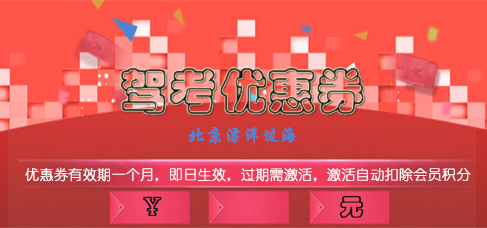
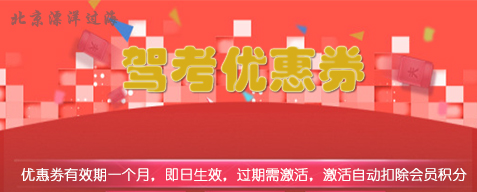
修改优惠券页面 huangfushan

diff --git a/src/main/webapp/js/coupon.js b/src/main/webapp/js/coupon.js
@@ -1,24 +1,29 @@
 $(function(){
 	$.post("queryCoupon.action",{},function(obj){
-    		if (obj.status == "1") {
-    			$(".coupons_hint_box").empty();
-				$(".price").html(obj.price);
-    		}else if (obj.status == "2") {
-    			$(".coupons_hint_box").empty();
-    			$(".price").html(obj.price);
+		if (obj.status=="0") {
+			var coupon_hint = "<div class='coupons_hint_box'><div class='coupon_hint'><div class='nohint'><p class='nohint_no'>没有券</p><p class='nohint_look'>去优惠活动里进行看看吧</p><a href='lottery.html'>去看看</a></div></div></div>"
+			$(".container").html(coupon_hint);
+		}else{
+			var coupon = "<div class='coupon'><img src='images/coupon.jpg' ><p>"+obj.price+"元</p><div class='coupon_hint_text'><h2>优惠提示:</h2><p>30天有效期，从领取日开始计时</p><p>过期可使用会员积分激活继续使用</p></div><div class='use_coupon'></div></div>"
+			$(".container").html(coupon);
+			if (obj.status == "1" || obj.status == "2") {
+    			$(".use_coupon").html("立即使用");
+    			$(".use_coupon").click(function(){
+    				window.location.href="index.html";
+    			});
     		}else if (obj.status == "3") {
-    			$(".coupons_hint_box").empty();
-				$(".price").html(obj.price);
+    			$(".use_coupon").html("立即激活并使用");
+    			$(".use_coupon").click(function(){
+    				$.post("activation.action",{},function(obj){
+						if (obj.status == "1") {
+							alert("激活成功");
+						}else{
+							alert("激活失败");
+						}
+					});
+				});	
     		}
-    	},'json');
-	$(".activation").click(function(){
-		$.post("activation.action",{},function(obj){
-			if (obj.status == "1") {
-				$(".activation").hide();
-				$(".effective").html("可用");
-			}else{
-				alert("激活失败");
-			}
-		});
-	});
+		}
+    },'json');	
 });
+

diff --git a/src/main/webapp/lottery.html b/src/main/webapp/lottery.html
@@ -17,9 +17,9 @@
 			<div class="instroduction">
 				<h4>活动具体说明：</h4>
 				<p>1.北京漂洋过海入驻北京，针对大学生的需求，推出驾校优惠活动。</p>
-				<p>2.优惠活动以优惠券具体金额为主，优惠券通过转盘抽奖免费获得，最低优惠200￥。</p>
-				<p>3.优惠券有效期为一个月，过期后如需继续使用，可用会员积分激活。</p>
-				<p>4."不限驾校"的范围指驾校模块中的所有驾校。</p>
+				<p>2.优惠活动以优惠券具体金额为主，优惠券通过转盘抽奖免费获得，最高优惠1000元。</p>
+				<p>3.优惠券有效期为一个月，过期后如需使用，可用会员积分激活。</p>
+				<p>4."不限驾校"的范围指驾校菜单中驾校。</p>
 			</div>
 			<div class='lottery_box'>
 				<div id="lottery">

diff --git a/src/main/webapp/coupon.html b/src/main/webapp/coupon.html
@@ -9,24 +9,7 @@
 </head>
 <body>	
 	<div class="main">
-		<div class="container">
-			<div class="coupons_hint_box">
-				<div class="coupon_hint">
-					<div class="nohint">
-						<p class="nohint_no">没有券</p>
-						<p class="nohint_look">去优惠活动里进行看看吧</p>
-						<a href="lottery.html">去看看</a>
-					</div>
-				</div>
-			</div>
-			<div class="coupon">
-				<img src="images/coupon.jpg" height="100%" width="100%">
-				<a href="index.html">去使用</a>
-				<div class="effective">已失效</div>
-				<div class="activation">激活</div>
-				<div class="price">200</div>
-			</div>
-		</div>
+		<div class="container"></div>
 	</div>
 	<script type="text/javascript" src="js/jquery-3.2.1.min.js"></script>
 	<script type="text/javascript" src="js/coupon.js"></script>

diff --git a/src/main/webapp/css/coupon.css b/src/main/webapp/css/coupon.css
@@ -33,14 +33,31 @@
   	border: 1px solid #999;
   	border-radius: 2px;
   }   
-.coupon{
-	height: 200px;
+.coupon img{
+  margin-left: 10%;
+  margin-top:30px;
+  width:80%;
 }
-.coupon a{
-	color:red; 
-	
-	font-size: 14px;
-	padding: 5px;
-	border-radius: 50px;
-	background-color: white;
+.coupon_hint_text{
+  margin-top: 40px;
+  width: 80%;
+  margin-left:10%;
+  line-height: 40px;
+}
+.coupon_hint_text p{
+  padding-left: 20px;
+  font-size: 14px;
+  color: #555;
+  background:url(../images/phone_pic.png)no-repeat center left;
+}
+.use_coupon{
+  margin-top:40px;
+  background-color: yellow;
+  width: 60%;
+  height: 40px;
+  border-radius: 20px;
+  margin-left: 20%;
+  display: flex;
+  justify-content: center;
+  align-items: center;
 }

diff --git a/src/main/webapp/css/ds_apply.css b/src/main/webapp/css/ds_apply.css
@@ -114,7 +114,7 @@ span{
 	height: 24px;
 	border: 0px;
 	border-bottom: 1px solid #eee;
-		font-size: 12px;
+	font-size: 12px;
 	padding-left: 10px;
 }
 input::-webkit-input-placeholder { 
@@ -126,8 +126,9 @@ input::-webkit-input-placeholder {
 	width: 80%;
 	margin-left:10%;
 	margin-top: 10px;
-	height: 36px;
+	height: 40px;
 	border-radius: 5px;
+	border: 0;
 	background-color:#67c0ee;
 	color:#fff;
 	margin-bottom:15px;

diff --git a/src/main/webapp/css/submit_orders.css b/src/main/webapp/css/submit_orders.css
@@ -52,11 +52,11 @@ span{
 .ds_apply{
 	margin-top: 10px;
 	background-color: white;
-	padding-bottom: 10px;
 	line-height: 40px;
+	padding-top: 10px;
+	padding-bottom: 10px;
 }
 .row{
-	margin-top: 10px;
 	padding-left: 16px;
 	padding-right: 16px;
 	display: flex;

diff --git a/src/main/webapp/js/lottery.js b/src/main/webapp/js/lottery.js
@@ -68,9 +68,8 @@ var lottery={
         this.index=index;
     }
 };
+//开始抽奖动画
 function roll(num){
-    
-
     lottery.times += 1;
     lottery.roll();
     if (lottery.times > lottery.cycle+10 && lottery.prize==lottery.index) {
